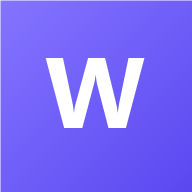
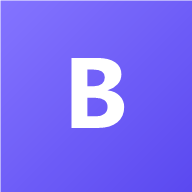
Add files via upload

Changed region(s): [[0.2188, 0.2812, 0.75, 0.6875]]

diff --git a/index.html b/index.html
@@ -6,15 +6,15 @@
   <meta name="theme-color" content="#6d5efc" />
   <meta name="apple-mobile-web-app-capable" content="yes" />
   <meta name="apple-mobile-web-app-status-bar-style" content="default" />
-  <meta name="apple-mobile-web-app-title" content="Whatnot" />
+  <meta name="apple-mobile-web-app-title" content="Bulk Import" />
   <link rel="manifest" href="manifest.webmanifest" />
   <link rel="apple-touch-icon" href="icons/apple-touch-icon.png" />
   <link rel="stylesheet" href="app.css" />
-  <title>Whatnot Uploader</title>
+  <title>Bulk Import Builder</title>
 </head>
 <body>
   <header class="topbar">
-    <div class="brand"><span class="mark">W</span> Whatnot Uploader</div>
+    <div class="brand"><span class="mark">B</span> Bulk Import Builder</div>
     <button id="gear" class="iconbtn" aria-label="Settings">⚙</button>
   </header>
 
@@ -24,7 +24,7 @@
       <div class="show-card">
         <label class="field">
           <span>Show name</span>
-          <input id="show-name" type="text" placeholder="e.g. Gillis Farm Sale 3" />
+          <input id="show-name" type="text" placeholder="Name this show" />
         </label>
         <label class="field small">
           <span>Item code letter <small>(e.g. A → A1, A2…)</small></span>
@@ -100,6 +100,7 @@
       <label class="field small"><span>Shipping profile</span><select id="def-shipping"></select></label>
       <p class="hint tiny">Category is fixed to <b>Antiques, Vintage &amp; Ephemera → Vintage Decor</b> (matches your shows). Edit in app.js if that ever changes.</p>
       <button id="settings-done" class="bigbtn sm">Done</button>
+      <p class="hint tiny" style="text-align:center;margin-top:16px">Not affiliated with, endorsed by, or sponsored by Whatnot, Inc. “Whatnot” is a trademark of its owner.</p>
     </div>
   </div>
 

diff --git a/app.js b/app.js
@@ -1,7 +1,7 @@
 'use strict';
 
 /* ============================================================================
-   Whatnot Uploader — iPhone PWA
+   Bulk Import Builder — iPhone PWA (a bulk-import CSV builder for Whatnot)
    Build a Whatnot bulk-import CSV entirely on the phone:
    pick photos -> auto-group by capture time -> edit -> upload -> CSV.
    CSV columns + defaults mirror the desktop tool exactly.

diff --git a/worker.js b/worker.js
@@ -1,5 +1,5 @@
 /*
-  Whatnot Uploader — image relay (Cloudflare Worker).
+  Bulk Import Builder — image relay (Cloudflare Worker).
 
   Phones can't upload to Catbox directly (the browser blocks it for security/CORS).
   This tiny worker receives a photo from the app and forwards it to Catbox, then

diff --git a/sw.js b/sw.js
@@ -1,6 +1,6 @@
 // Simple offline-shell service worker. Caches the app files + CDN libs so the app
 // opens even with no signal. Bump CACHE to force an update after editing files.
-const CACHE = 'whatnot-pwa-v1';
+const CACHE = 'bulk-import-builder-v2';
 const ASSETS = [
   './',
   './index.html',

diff --git a/README.md b/README.md
@@ -1,4 +1,7 @@
-# Whatnot Uploader — iPhone app (PWA)
+# Bulk Import Builder — iPhone app (PWA)
+
+*A bulk-import CSV builder for Whatnot. Not affiliated with, endorsed by, or sponsored by
+Whatnot, Inc. "Whatnot" is a trademark of its owner.*
 
 A phone version of the desktop tool. Pick your show photos, it auto-groups them into
 items by capture time, you type titles/prices, and it builds the **exact same
@@ -28,7 +31,7 @@ at an `https://` address. Easiest free way:
 ## B. Add it to your iPhone home screen
 1. Open the link above in **Safari** on your iPhone.
 2. Tap the **Share** button → **Add to Home Screen** → **Add**.
-3. You now have a **Whatnot Uploader** icon, opens full-screen like a real app.
+3. You now have a **Bulk Import** icon, opens full-screen like a real app.
 
 ## C. Photo uploads — no setup needed
 Photos upload to a free temporary host (Litterbox) straight from the phone. The links last
